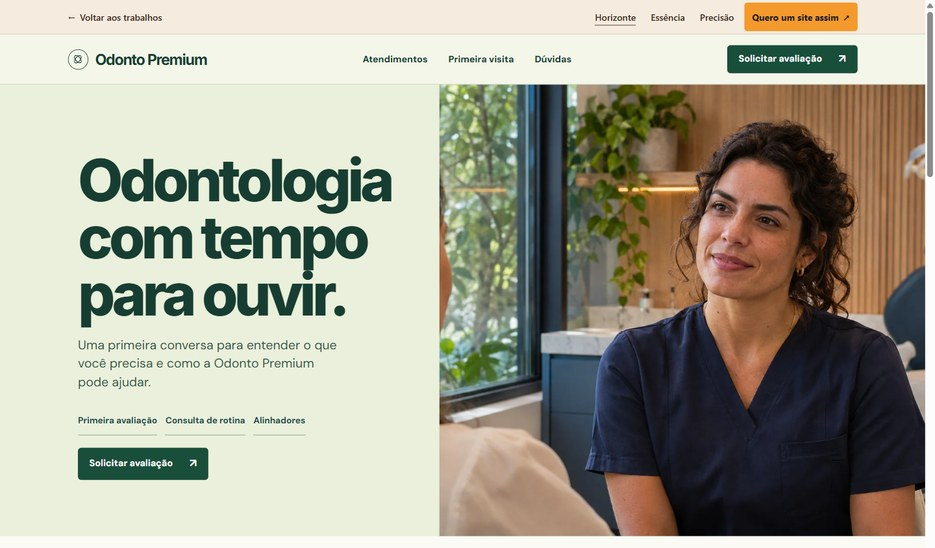
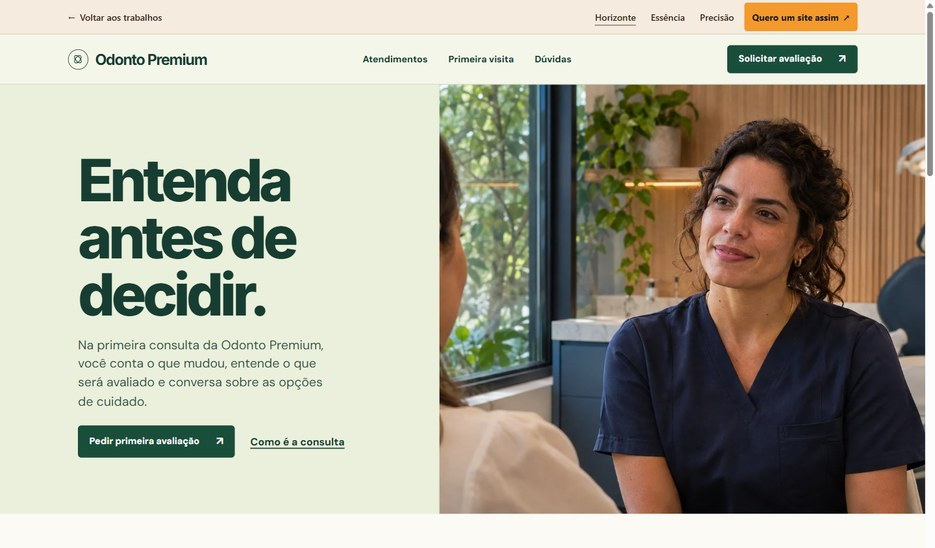
Reescreve as jornadas e o conteúdo da demonstração odontológica

diff --git a/app/exemplos/sites/dentista/essencia.html b/app/exemplos/sites/dentista/essencia.html
@@ -42,46 +42,53 @@
  </header>
  <main id="conteudo">
    <section class="hero hero-wide"><div class="section-shell hero-overlay"><div class="hero-copy">
-       <h1>Seu sorriso, no seu tempo.</h1>
-       <p>Um consultório onde você pode fazer perguntas e decidir com calma como cuidar do seu sorriso.</p>
+       <h1>O cuidado começa na consulta.</h1>
+       <p>Um espaço para entender o que está acontecendo, perguntar à vontade e conversar sobre as possibilidades de tratamento.</p>
 
        <a class="clinic-button" href="#avaliacao">Solicitar avaliação <span aria-hidden="true">↗</span></a>
       </div></div><div class="hero-photo"><img src="sala-720.webp" srcset="sala-720.webp 720w, sala-1440.webp 1440w"
        sizes="100vw" alt="Consultório odontológico com madeira, plantas e luz natural" fetchpriority="high" decoding="async"></div></section>
      <section class="treatments section-shell essence-treatments" id="atendimentos" aria-labelledby="treatments-title">
-    <div class="essence-section-title"><h2 id="treatments-title">Os atendimentos.</h2><p>Escolha o motivo da sua visita.</p></div>
-    <div class="essence-spread"><article class="essence-story"><figure class=""><img src="avaliacao-720.webp" srcset="avaliacao-720.webp 720w, avaliacao-1440.webp 1440w" sizes="(max-width: 760px) 100vw, 50vw" alt="Dentista e paciente conversam com apoio de um modelo odontológico" decoding="async" loading="lazy"></figure><div><h3>Primeira avaliação</h3><p>Conte o que motivou a visita e converse sobre os próximos passos.</p><a href="#avaliacao" data-service-choice="primeira" aria-label="Selecionar primeira avaliação">Ver na avaliação <span aria-hidden="true">↗</span></a></div></article>
-<article class="essence-story"><figure class=""><img src="rotina-720.webp" srcset="rotina-720.webp 720w, rotina-1440.webp 1440w" sizes="(max-width: 760px) 100vw, 50vw" alt="Bandeja preparada para a consulta odontológica" decoding="async" loading="lazy"></figure><div><h3>Consulta de rotina</h3><p>Reserve um momento para revisar seus cuidados e esclarecer dúvidas.</p><a href="#avaliacao" data-service-choice="rotina" aria-label="Selecionar consulta de rotina">Ver na avaliação <span aria-hidden="true">↗</span></a></div></article>
-<article class="essence-story"><figure class=""><img src="alinhadores-720.webp" srcset="alinhadores-720.webp 720w, alinhadores-1440.webp 1440w" sizes="(max-width: 760px) 100vw, 50vw" alt="Alinhador transparente e modelo odontológico" decoding="async" loading="lazy"></figure><div><h3>Alinhadores</h3><p>Leve suas dúvidas sobre alinhamento e entenda o que seria avaliado.</p><a href="#avaliacao" data-service-choice="alinhadores" aria-label="Selecionar alinhadores">Ver na avaliação <span aria-hidden="true">↗</span></a></div></article></div>
+    <div class="essence-section-title"><h2 id="treatments-title">Escolha o motivo da visita.</h2><p>Escolha o motivo da sua visita.</p></div>
+    <div class="essence-spread"><article class="essence-story"><figure class=""><img src="avaliacao-720.webp" srcset="avaliacao-720.webp 720w, avaliacao-1440.webp 1440w" sizes="(max-width: 760px) 100vw, 50vw" alt="Dentista e paciente conversam com apoio de um modelo odontológico" decoding="async" loading="lazy"></figure><div><h3>Uma primeira conversa</h3><p>Para reorganizar o cuidado, discutir um incômodo ou entender uma mudança que você percebeu no sorriso.</p><a href="#avaliacao" data-service-choice="primeira" aria-label="Selecionar primeira avaliação">Ver na avaliação <span aria-hidden="true">↗</span></a></div></article>
+<article class="essence-story"><figure class=""><img src="rotina-720.webp" srcset="rotina-720.webp 720w, rotina-1440.webp 1440w" sizes="(max-width: 760px) 100vw, 50vw" alt="Bandeja preparada para a consulta odontológica" decoding="async" loading="lazy"></figure><div><h3>Uma consulta de rotina</h3><p>Para falar sobre os cuidados do dia a dia e revisar o acompanhamento já iniciado.</p><a href="#avaliacao" data-service-choice="rotina" aria-label="Selecionar consulta de rotina">Ver na avaliação <span aria-hidden="true">↗</span></a></div></article>
+<article class="essence-story"><figure class=""><img src="alinhadores-720.webp" srcset="alinhadores-720.webp 720w, alinhadores-1440.webp 1440w" sizes="(max-width: 760px) 100vw, 50vw" alt="Alinhador transparente e modelo odontológico" decoding="async" loading="lazy"></figure><div><h3>Uma avaliação de alinhamento</h3><p>Para conversar sobre o que você gostaria de mudar e tirar dúvidas sobre alinhadores.</p><a href="#avaliacao" data-service-choice="alinhadores" aria-label="Selecionar alinhadores">Ver na avaliação <span aria-hidden="true">↗</span></a></div></article></div>
    </section>
    <section class="clinic-scene essence-scene" aria-labelledby="space-title">
     <div class="section-shell scene-inner">
-     <div><h2 id="space-title">Por dentro da Odonto Premium.</h2><p>Na primeira visita, o consultório também é lugar para fazer perguntas e entender suas opções.</p></div>
+     <div><h2 id="space-title">Por dentro da Odonto Premium.</h2><p>A recepção é onde você pode informar o motivo da visita. No consultório, a conversa segue com o dentista, que explica a avaliação e como será feito o acompanhamento.</p></div>
      <figure class=""><img src="recepcao-720.webp" srcset="recepcao-720.webp 720w, recepcao-1440.webp 1440w" sizes="(max-width: 760px) 100vw, 50vw" alt="Área de espera com madeira, poltronas e uma janela para o jardim" decoding="async" loading="lazy"></figure>
     </div>
    </section>
    <section class="visit visit-essence" id="primeira-visita" aria-labelledby="visit-title">
     <div class="section-shell visit-inner">
-      <div><h2 id="visit-title">Da conversa ao plano de cuidado.</h2><p class="visit-lead">Veja o que acontece ao chegar para a primeira avaliação.</p></div>
+      <div><h2 id="visit-title">Da chegada à conversa sobre as opções</h2><p class="visit-lead">Você pode trazer exames anteriores e perguntas. A visita também pode começar só com uma conversa.</p></div>
       <ol>
-        <li><h3>Conversa inicial</h3><p>Conte o que trouxe você e o que gostaria de entender.</p></li>
-        <li><h3>Avaliação</h3><p>O dentista explica o que vai observar e abre espaço para perguntas.</p></li>
-        <li><h3>Próximos passos</h3><p>Vocês conversam sobre as opções e decidem como seguir.</p></li>
+        <li><h3>Ao chegar</h3><p>Conte à equipe o motivo da visita e se já passou por algum tratamento relacionado.</p></li>
+        <li><h3>Durante a avaliação</h3><p>Converse com o dentista sobre o que ele observou e sobre as dúvidas que você trouxe.</p></li>
+        <li><h3>Ao sair</h3><p>Confirme o que ficou combinado, quais informações faltam e como será feito o próximo contato.</p></li>
       </ol>
+    </div>
+   </section>
+   <section class="essence-questions" aria-labelledby="questions-title">
+    <div class="section-shell essence-questions-inner">
+     <h2 id="questions-title">Perguntas para levar à consulta</h2>
+     <ul><li>O que a avaliação pode esclarecer?</li><li>Quais opções fazem sentido para o meu caso?</li><li>O que preciso saber antes de decidir?</li></ul>
     </div>
    </section>
    <section class="faq section-shell" id="duvidas" aria-labelledby="faq-title">
    <h2 id="faq-title">Dúvidas antes de marcar</h2>
    <div>
-    <details><summary>Preciso escolher um tratamento antes da avaliação?</summary><p>Você pode escolher “Primeira avaliação” e conversar sobre o motivo da visita.</p></details>
-    <details><summary>O pedido já confirma uma consulta?</summary><p>Numa clínica real, a equipe confirmaria o dia e o horário com você. Neste exemplo, o pedido gera uma confirmação e uma mensagem de teste.</p></details>
-    <details><summary>O que posso levar na primeira visita?</summary><p>Se tiver exames anteriores, pergunte à equipe se vale a pena levá-los. Você também pode anotar suas dúvidas.</p></details>
+    <details><summary>Posso só conversar sobre as opções?</summary><p>Sim. Se o objetivo for conhecer possibilidades, escolha Primeira avaliação e leve as perguntas que quer discutir.</p></details>
+    <details><summary>Quando descubro as etapas e os valores?</summary><p>A avaliação ajuda a definir o que faz sentido para o seu caso. Pergunte o que cada opção inclui e se algum exame será necessário.</p></details>
+    <details><summary>Preciso levar radiografias ou exames?</summary><p>Se já tiver exames, você pode levá-los. A equipe orienta se precisa de alguma informação adicional.</p></details>
+    <details><summary>Quem confirma a data da consulta?</summary><p>A equipe combina data e horário no retorno. O envio do pedido inicia esse contato.</p></details>
    </div>
   </section>
 <div class="section-shell request-wrap"><section id="avaliacao" class="request" aria-labelledby="request-title">
-    <div class="request-heading"><h2 id="request-title">Solicitar avaliação</h2>
+    <div class="request-heading"><h2 id="request-title">Combine o primeiro contato</h2>
      <button class="sample-button" type="button" data-fill-example hidden>Usar exemplo</button></div>
-    <p>Escolha o atendimento e o melhor período para retorno.</p>
+    <p>Informe o motivo da visita e o período em que prefere conversar.</p>
     <form class="request-form">
      <div class="form-fields">
       <label for="service">Qual atendimento você procura?

diff --git a/app/exemplos/sites/dentista/precisao.html b/app/exemplos/sites/dentista/precisao.html
@@ -41,17 +41,16 @@
  </header>
  <main id="conteudo">
    <section class="hero hero-fast"><div class="hero-fast-grid"><div class="hero-copy">
-       <h1>Escolha seu atendimento.</h1>
-       <p>Primeira avaliação, consulta de rotina ou alinhadores.</p>
+       <h1>Pedir avaliação odontológica.</h1>
+       <p>A equipe retorna no período que você indicar para combinar a consulta.</p>
 
 
       </div>
      <div class="hero-fast-media"><img src="consultorio-720.webp" srcset="consultorio-720.webp 720w, consultorio-1440.webp 1440w"
        sizes="100vw" alt="Cadeira de atendimento e equipamentos na clínica Odonto Premium" decoding="async" fetchpriority="high"></div>
      <section id="avaliacao" class="request" aria-labelledby="request-title">
-    <div class="request-heading"><h2 id="request-title">Solicitar avaliação</h2>
+    <div class="request-heading"><h2 id="request-title">Seu pedido de avaliação</h2>
      <button class="sample-button" type="button" data-fill-example hidden>Usar exemplo</button></div>
-    <p>Escolha o atendimento e o melhor período para retorno.</p>
     <form class="request-form">
      <div class="form-fields">
       <label for="service">Qual atendimento você procura?
@@ -72,6 +71,7 @@
       </label>
      </div>
      <button class="clinic-button" type="submit" disabled>Simular pedido <span aria-hidden="true">↗</span></button>
+     <p class="service-guidance" data-service-guidance hidden></p>
      <p class="demo-note">Demonstração. Nenhuma mensagem será enviada.</p>
      <noscript><p>Ative o JavaScript para simular o pedido.</p></noscript>
     </form>
@@ -93,23 +93,23 @@
     </div>
    </section></div></section>
      <section class="treatments precision-treatments" id="atendimentos" aria-labelledby="treatments-title">
-     <div class="section-shell"><h2 id="treatments-title">Conheça os atendimentos.</h2><ul class="precision-rows"><li class="precision-row"><h3>Primeira avaliação</h3><div><p>Conte o que motivou a visita e converse sobre os próximos passos.</p><a href="#avaliacao" data-service-choice="primeira" aria-label="Selecionar primeira avaliação">Selecionar <span aria-hidden="true">↗</span></a></div><figure class=""><img src="avaliacao-720.webp" srcset="avaliacao-720.webp 720w, avaliacao-1440.webp 1440w" sizes="(max-width: 760px) 100vw, 50vw" alt="Dentista e paciente conversam com apoio de um modelo odontológico" decoding="async" loading="lazy"></figure></li>
-<li class="precision-row"><h3>Consulta de rotina</h3><div><p>Reserve um momento para revisar seus cuidados e esclarecer dúvidas.</p><a href="#avaliacao" data-service-choice="rotina" aria-label="Selecionar consulta de rotina">Selecionar <span aria-hidden="true">↗</span></a></div><figure class=""><img src="rotina-720.webp" srcset="rotina-720.webp 720w, rotina-1440.webp 1440w" sizes="(max-width: 760px) 100vw, 50vw" alt="Bandeja preparada para a consulta odontológica" decoding="async" loading="lazy"></figure></li>
-<li class="precision-row"><h3>Alinhadores</h3><div><p>Leve suas dúvidas sobre alinhamento e entenda o que seria avaliado.</p><a href="#avaliacao" data-service-choice="alinhadores" aria-label="Selecionar alinhadores">Selecionar <span aria-hidden="true">↗</span></a></div><figure class=""><img src="alinhadores-720.webp" srcset="alinhadores-720.webp 720w, alinhadores-1440.webp 1440w" sizes="(max-width: 760px) 100vw, 50vw" alt="Alinhador transparente e modelo odontológico" decoding="async" loading="lazy"></figure></li></ul></div>
+     <div class="section-shell"><h2 id="treatments-title">Qual atendimento você procura?</h2><ul class="precision-rows"><li class="precision-row"><h3>Primeira avaliação</h3><div><p>Primeira vez na clínica, retomada do acompanhamento ou dúvida sobre qual atendimento escolher.</p><a href="#avaliacao" data-service-choice="primeira" aria-label="Selecionar primeira avaliação">Selecionar <span aria-hidden="true">↗</span></a></div><figure class=""><img src="avaliacao-720.webp" srcset="avaliacao-720.webp 720w, avaliacao-1440.webp 1440w" sizes="(max-width: 760px) 100vw, 50vw" alt="Dentista e paciente conversam com apoio de um modelo odontológico" decoding="async" loading="lazy"></figure></li>
+<li class="precision-row"><h3>Consulta de rotina</h3><div><p>Para dar continuidade ao cuidado e conversar sobre a revisão periódica.</p><a href="#avaliacao" data-service-choice="rotina" aria-label="Selecionar consulta de rotina">Selecionar <span aria-hidden="true">↗</span></a></div><figure class=""><img src="rotina-720.webp" srcset="rotina-720.webp 720w, rotina-1440.webp 1440w" sizes="(max-width: 760px) 100vw, 50vw" alt="Bandeja preparada para a consulta odontológica" decoding="async" loading="lazy"></figure></li>
+<li class="precision-row"><h3>Avaliação para alinhadores</h3><div><p>Para pedir uma conversa sobre alinhamento dos dentes e opções de tratamento.</p><a href="#avaliacao" data-service-choice="alinhadores" aria-label="Selecionar alinhadores">Selecionar <span aria-hidden="true">↗</span></a></div><figure class=""><img src="alinhadores-720.webp" srcset="alinhadores-720.webp 720w, alinhadores-1440.webp 1440w" sizes="(max-width: 760px) 100vw, 50vw" alt="Alinhador transparente e modelo odontológico" decoding="async" loading="lazy"></figure></li></ul></div>
    </section>
    <section class="visit visit-precision" id="primeira-visita" aria-labelledby="visit-title">
     <div class="section-shell visit-inner">
-      <div><h2 id="visit-title">O que acontece na avaliação</h2><p class="visit-lead">Saiba o caminho antes de simular o pedido.</p></div>
+      <div><h2 id="visit-title">O que acontece depois do pedido</h2><p class="visit-lead">O período informado ajuda a equipe a falar com você. A consulta é combinada depois.</p></div>
       <ol>
-        <li><h3>Conversa inicial</h3><p>Conte o que trouxe você e o que gostaria de entender.</p></li>
-        <li><h3>Avaliação</h3><p>O dentista explica o que vai observar e abre espaço para perguntas.</p></li>
-        <li><h3>Próximos passos</h3><p>Vocês conversam sobre as opções e decidem como seguir.</p></li>
+        <li><h3>Pedido recebido</h3><p>A equipe identifica o motivo da consulta e o período em que você prefere falar.</p></li>
+        <li><h3>Contato da equipe</h3><p>Vocês combinam a data, o horário e o que precisa levar.</p></li>
+        <li><h3>Primeira visita</h3><p>O dentista retoma o motivo da consulta e explica os próximos passos.</p></li>
       </ol>
     </div>
    </section>
    <section class="clinic-scene precision-scene section-shell" aria-labelledby="space-title">
     <figure class=""><img src="sala-720.webp" srcset="sala-720.webp 720w, sala-1440.webp 1440w" sizes="(max-width: 760px) 100vw, 50vw" alt="Consultório iluminado, com cadeira de atendimento e madeira clara" decoding="async" loading="lazy"></figure>
-    <div><h2 id="space-title">O consultório</h2><p>Um espaço para a conversa inicial, a avaliação e a orientação sobre o que vem depois.</p></div>
+    <div><h2 id="space-title">O consultório</h2><p>Na primeira visita, o consultório é onde a equipe retoma o motivo do pedido e conversa sobre a avaliação.</p></div>
    </section>
    <section class="faq section-shell" id="duvidas" aria-labelledby="faq-title">
    <div class="faq-intro">
@@ -117,9 +117,9 @@
     <a class="clinic-button" href="#avaliacao">Solicitar avaliação <span aria-hidden="true">↗</span></a>
    </div>
    <div>
-    <details><summary>Preciso escolher um tratamento antes da avaliação?</summary><p>Você pode escolher “Primeira avaliação” e conversar sobre o motivo da visita.</p></details>
-    <details><summary>O pedido já confirma uma consulta?</summary><p>Numa clínica real, a equipe confirmaria o dia e o horário com você. Neste exemplo, o pedido gera uma confirmação e uma mensagem de teste.</p></details>
-    <details><summary>O que posso levar na primeira visita?</summary><p>Se tiver exames anteriores, pergunte à equipe se vale a pena levá-los. Você também pode anotar suas dúvidas.</p></details>
+    <details><summary>Qual opção devo selecionar se ainda estou em dúvida?</summary><p>Escolha Primeira avaliação. A equipe pode conversar com você sobre o motivo e orientar o próximo passo.</p></details>
+    <details><summary>O período escolhido já reserva um horário?</summary><p>O período serve para o retorno da equipe. O horário da consulta é combinado em seguida.</p></details>
+    <details><summary>Consigo ajustar minha escolha antes de finalizar?</summary><p>Sim. Depois de simular o pedido, use Editar escolhas para corrigir o atendimento ou o período.</p></details>
    </div>
   </section>
  </main>

diff --git a/app/exemplos/sites/dentista/index.html b/app/exemplos/sites/dentista/index.html
@@ -41,49 +41,52 @@
  </header>
  <main id="conteudo">
    <section class="hero section-shell"><div class="hero-copy">
-       <h1>Odontologia com tempo para ouvir.</h1>
-       <p>Uma primeira conversa para entender o que você precisa e como a Odonto Premium pode ajudar.</p>
-       <div class="hero-choices" role="group" aria-label="Atalhos de atendimento"><a href="#avaliacao" data-service-choice="primeira">Primeira avaliação</a>
-         <a href="#avaliacao" data-service-choice="rotina">Consulta de rotina</a>
-         <a href="#avaliacao" data-service-choice="alinhadores">Alinhadores</a></div>
-       <a class="clinic-button" href="#avaliacao">Solicitar avaliação <span aria-hidden="true">↗</span></a>
+       <h1>Entenda antes de decidir.</h1>
+       <p>Na primeira consulta da Odonto Premium, você conta o que mudou, entende o que será avaliado e conversa sobre as opções de cuidado.</p>
+       <div class="horizon-hero-actions">
+        <a class="clinic-button" href="#avaliacao" data-service-choice="primeira">Pedir primeira avaliação <span aria-hidden="true">↗</span></a>
+        <a class="clinic-inline" href="#primeira-visita">Como é a consulta</a>
+       </div>
       </div><div class="hero-photo"><img src="conversa-720.webp" srcset="conversa-720.webp 720w, conversa-1440.webp 1440w"
        sizes="(max-width: 760px) 100vw, 58vw" alt="Dentista conversando com uma paciente no consultório" fetchpriority="high" decoding="async"></div></section>
      <section class="treatments section-shell horizon-treatments" id="atendimentos" aria-labelledby="treatments-title">
-    <h2 id="treatments-title">O que traz você até aqui?</h2>
+    <h2 id="treatments-title">Por que você está procurando um dentista?</h2>
     <div class="horizon-index">
      <figure class="horizon-index-photo"><img src="avaliacao-720.webp" srcset="avaliacao-720.webp 720w, avaliacao-1440.webp 1440w" sizes="(max-width: 760px) 100vw, 50vw" alt="Dentista e paciente conversam com apoio de um modelo odontológico" decoding="async" loading="lazy"></figure>
-     <ul class="service-list"><li><div><h3>Primeira avaliação</h3><p>Conte o que motivou a visita e converse sobre os próximos passos.</p></div><a href="#avaliacao" data-service-choice="primeira" aria-label="Selecionar primeira avaliação">Escolher <span aria-hidden="true">↗</span></a></li>
-<li><div><h3>Consulta de rotina</h3><p>Reserve um momento para revisar seus cuidados e esclarecer dúvidas.</p></div><a href="#avaliacao" data-service-choice="rotina" aria-label="Selecionar consulta de rotina">Escolher <span aria-hidden="true">↗</span></a></li>
-<li><div><h3>Alinhadores</h3><p>Leve suas dúvidas sobre alinhamento e entenda o que seria avaliado.</p></div><a href="#avaliacao" data-service-choice="alinhadores" aria-label="Selecionar alinhadores">Escolher <span aria-hidden="true">↗</span></a></li></ul>
+     <ul class="service-list"><li><div><h3>Primeira avaliação</h3><p>Para quem está chegando à clínica, percebeu alguma mudança ou quer entender por onde começar.</p></div><a href="#avaliacao" data-service-choice="primeira" aria-label="Selecionar primeira avaliação">Escolher <span aria-hidden="true">↗</span></a></li>
+<li><div><h3>Consulta de rotina</h3><p>Para quem quer retomar o acompanhamento e conversar sobre a rotina de cuidados.</p></div><a href="#avaliacao" data-service-choice="rotina" aria-label="Selecionar consulta de rotina">Escolher <span aria-hidden="true">↗</span></a></li>
+<li><div><h3>Avaliação para alinhadores</h3><p>Para quem tem dúvidas sobre posição dos dentes e quer conversar sobre as alternativas.</p></div><a href="#avaliacao" data-service-choice="alinhadores" aria-label="Selecionar alinhadores">Escolher <span aria-hidden="true">↗</span></a></li></ul>
     </div>
    </section>
    <section class="visit visit-horizon" id="primeira-visita" aria-labelledby="visit-title">
     <div class="section-shell visit-inner">
-      <div><h2 id="visit-title">Sua primeira visita, passo a passo.</h2><p class="visit-lead">Você pode chegar com dúvidas. A conversa faz parte da avaliação.</p></div>
+      <div><h2 id="visit-title">Como é a sua primeira consulta</h2><p class="visit-lead">Você pode começar contando o que está incomodando ou o que gostaria de mudar.</p></div>
       <ol>
-        <li><h3>Conversa inicial</h3><p>Conte o que trouxe você e o que gostaria de entender.</p></li>
-        <li><h3>Avaliação</h3><p>O dentista explica o que vai observar e abre espaço para perguntas.</p></li>
-        <li><h3>Próximos passos</h3><p>Vocês conversam sobre as opções e decidem como seguir.</p></li>
+        <li><h3>Ouvimos o seu motivo</h3><p>O que você percebeu, o que já foi feito e o que espera entender na visita.</p></li>
+        <li><h3>Explicamos a avaliação</h3><p>O dentista conversa com você sobre o que precisa observar e por que isso importa.</p></li>
+        <li><h3>Combinamos o que vem depois</h3><p>Se houver opções, converse sobre etapas, valores e prazos antes de decidir.</p></li>
       </ol>
     </div>
    </section>
    <section class="clinic-scene horizon-scene" aria-label="Recepção da Odonto Premium">
     <img src="recepcao-720.webp" srcset="recepcao-720.webp 720w, recepcao-1440.webp 1440w" sizes="100vw" alt="Recepção da clínica com poltronas verdes e luz natural" decoding="async" loading="lazy">
-    <div class="section-shell scene-caption"><p>Recepção da Odonto Premium</p></div>
+    <div class="section-shell scene-caption"><p>Recepção da Odonto Premium. Antes da avaliação, você pode conversar com a equipe sobre o motivo da visita.</p></div>
    </section>
    <section class="faq section-shell" id="duvidas" aria-labelledby="faq-title">
    <h2 id="faq-title">Dúvidas antes de marcar</h2>
    <div>
-    <details><summary>Preciso escolher um tratamento antes da avaliação?</summary><p>Você pode escolher “Primeira avaliação” e conversar sobre o motivo da visita.</p></details>
-    <details><summary>O pedido já confirma uma consulta?</summary><p>Numa clínica real, a equipe confirmaria o dia e o horário com você. Neste exemplo, o pedido gera uma confirmação e uma mensagem de teste.</p></details>
-    <details><summary>O que posso levar na primeira visita?</summary><p>Se tiver exames anteriores, pergunte à equipe se vale a pena levá-los. Você também pode anotar suas dúvidas.</p></details>
+    <details><summary>Faz tempo que não vou ao dentista. Por onde começo?</summary><p>Escolha Primeira avaliação. Você pode contar há quanto tempo foi a última consulta e o que motivou a visita agora.</p></details>
+    <details><summary>A avaliação já inclui um procedimento?</summary><p>O pedido é para uma avaliação. Se houver indicação de um procedimento, a equipe explica o que ele envolve e combina os próximos passos.</p></details>
+    <details><summary>O que vale levar?</summary><p>Se tiver exames ou informações de tratamentos anteriores, leve o que estiver à mão. Anote também as perguntas que quer fazer.</p></details>
+    <details><summary>Quando a consulta fica marcada?</summary><p>Depois do pedido, a equipe entra em contato para combinar data e horário. O período escolhido é para o retorno.</p></details>
    </div>
   </section>
-<div class="section-shell request-wrap"><section id="avaliacao" class="request" aria-labelledby="request-title">
-    <div class="request-heading"><h2 id="request-title">Solicitar avaliação</h2>
+<div class="section-shell request-wrap"><div class="section-shell request-layout">
+    <div class="request-intro"><h2>Vamos marcar uma conversa?</h2><p>Você escolhe quando é mais fácil receber o retorno. A equipe conversa com você para combinar a consulta.</p></div>
+    <section id="avaliacao" class="request" aria-labelledby="request-title">
+    <div class="request-heading"><h2 id="request-title">Pedir avaliação</h2>
      <button class="sample-button" type="button" data-fill-example hidden>Usar exemplo</button></div>
-    <p>Escolha o atendimento e o melhor período para retorno.</p>
+    <p>Escolha o atendimento e diga quando é mais fácil falar com você.</p>
     <form class="request-form">
      <div class="form-fields">
       <label for="service">Qual atendimento você procura?
@@ -123,7 +126,7 @@
      </div>
      <p role="status" class="copy-status"></p>
     </div>
-   </section></div>
+   </section></div></div>
     </main>
  <footer class="clinic-footer">
   <div class="section-shell">

diff --git a/app/exemplos/sites/dentista/dentista.css b/app/exemplos/sites/dentista/dentista.css
@@ -500,3 +500,35 @@ figure { margin:0;overflow:hidden }
  .precisao .hero-fast .request-form > button { justify-self:start }
  .precisao .precision-row figure { min-height:8rem;height:100% }
 }
+
+/* Layouts for the content and decision points unique to each version. */
+.horizonte .hero h1 { max-width:9.5ch }
+.horizon-hero-actions { display:flex;flex-wrap:wrap;align-items:center;gap:.6rem 1.5rem;margin-top:1.4rem }
+.clinic-inline { display:inline-flex;min-height:44px;align-items:center;font-weight:700;text-underline-offset:.24rem }
+.horizonte .request-layout { display:grid;grid-template-columns:minmax(0,.8fr) minmax(0,1.2fr);gap:clamp(1.4rem,5vw,5rem);align-items:center }
+.horizonte .request-intro { color:#f5f2e7 }
+.horizonte .request-intro h2 { font-size:clamp(2.3rem,4.15vw,4.5rem);max-width:11ch;letter-spacing:-.052em }
+.horizonte .request-intro p { color:#e3e8da;max-width:32ch;margin-top:.85rem }
+.horizonte .request-layout .request { margin-inline:0;max-width:none }
+.horizonte .service-list p { max-width:45ch }
+
+.essence-questions { padding-block:clamp(2rem,4.7vw,4.4rem);background:#344638 }
+.essence-questions-inner { display:grid;grid-template-columns:minmax(0,.8fr) minmax(0,1.2fr);align-items:center;gap:clamp(1.2rem,5vw,4.8rem) }
+.essence-questions h2 { font-weight:400;max-width:15ch }
+.essence-questions ul { list-style:none;padding:0;border-top:1px solid #859381 }
+.essence-questions li { padding:.85rem 0;color:#f4ebd6;border-bottom:1px solid #859381 }
+.essence-questions li::before { content:"↗";margin-right:.7rem;color:#e0c18b }
+.essencia .hero-copy h1 { max-width:10.5ch }
+
+.precisao .hero-fast h1 { font-size:clamp(2.6rem,6.1vw,5.6rem) }
+.precisao .request-heading { margin-bottom:.8rem }
+.precisao .service-guidance { padding:.65rem .78rem;background:#edf2fb;border-radius:.27rem;font-size:.9rem;color:#253e6a }
+.precisao .hero-fast .demo-note { margin-top:.12rem }
+@media(max-width:760px) {
+ .horizon-hero-actions { margin-top:1.1rem }
+ .horizon-hero-actions .clinic-button { min-height:46px }
+ .horizonte .request-layout,.essence-questions-inner { grid-template-columns:1fr }
+ .horizonte .request-layout { width:100% }
+ .essencia .hero-copy h1 { max-width:10.7ch }
+ .precisao .hero-fast h1 { font-size:clamp(2.5rem,9.8vw,4.3rem) }
+}

diff --git a/app/exemplos/sites/dentista/versoes.html b/app/exemplos/sites/dentista/versoes.html
@@ -12,22 +12,22 @@
 <body class="comparison">
  <main class="section-shell compare-shell">
   <a class="compare-back" href="/?tipo=orcamento&amp;projeto=dentista#trabalhos">← Voltar aos trabalhos</a>
-  <h1>Três sites para a mesma clínica.</h1>
-  <p>Compare os designs da Odonto Premium e experimente o pedido de avaliação em cada um.</p>
+  <h1>Odonto Premium</h1>
+  <p>Três propostas de site para uma clínica odontológica. Abra uma delas e experimente o pedido de avaliação.</p>
   <div class="version-grid">
     <article class="version-card horizonte">
      <a href="./"><img src="versao-horizonte.webp" width="900" height="590" alt="">
-      <div><h2>Horizonte</h2><p>Acolhedora, com atalhos para escolher o atendimento.</p><span>Abrir demonstração <span aria-hidden="true">↗</span></span></div>
+      <div><h2>Horizonte</h2><p>Explica a primeira consulta para quem ainda está decidindo.</p><span>Abrir demonstração <span aria-hidden="true">↗</span></span></div>
      </a>
     </article>
     <article class="version-card essencia">
      <a href="essencia.html"><img src="versao-essencia.webp" width="900" height="590" alt="">
-      <div><h2>Essência</h2><p>Editorial, com o espaço da clínica e a primeira visita em destaque.</p><span>Abrir demonstração <span aria-hidden="true">↗</span></span></div>
+      <div><h2>Essência</h2><p>Apresenta a clínica e ajuda a preparar o que perguntar na visita.</p><span>Abrir demonstração <span aria-hidden="true">↗</span></span></div>
      </a>
     </article>
     <article class="version-card precisao">
      <a href="precisao.html"><img src="versao-precisao.webp" width="900" height="590" alt="">
-      <div><h2>Precisão</h2><p>Direta, com o pedido de avaliação logo na abertura.</p><span>Abrir demonstração <span aria-hidden="true">↗</span></span></div>
+      <div><h2>Precisão</h2><p>Leva o visitante direto ao pedido, com orientação para cada escolha.</p><span>Abrir demonstração <span aria-hidden="true">↗</span></span></div>
      </a>
     </article>
   </div>

diff --git a/app/exemplos/sites/dentista/dentista.js b/app/exemplos/sites/dentista/dentista.js
@@ -24,11 +24,23 @@
  form.querySelector('[type=submit]').disabled = false;
  const status = result.querySelector('.copy-status');
  const sample = document.querySelector('[data-fill-example]');
+ const guidance = form.querySelector('[data-service-guidance]');
+ const guidanceByService = {
+  primeira:'Escolha esta opção se for sua primeira visita ou se não souber qual atendimento pedir.',
+  rotina:'Se já faz acompanhamento, a equipe retoma a conversa no retorno.',
+  alinhadores:'A equipe combina uma avaliação para conversar sobre alinhamento e opções de tratamento.'
+ };
+ const updateGuidance = () => {
+  if (!guidance) return;
+  guidance.textContent = guidanceByService[service.value] || '';
+  guidance.hidden = !guidance.textContent;
+ };
  let sequence = 0;
  sample.hidden = false;
  sample.addEventListener('click', () => {
   if (!service.value) service.value = 'primeira';
   if (!period.value) period.value = 'pela manhã';
+  updateGuidance();
   clearResult();
   form.querySelector('[type=submit]').focus();
  });
@@ -41,11 +53,16 @@
  document.querySelectorAll('[data-service-choice]').forEach(link => {
   link.addEventListener('click', () => {
    service.value = link.dataset.serviceChoice;
+   updateGuidance();
    clearResult();
   });
  });
 
- form.addEventListener('change', clearResult);
+ form.addEventListener('change', () => {
+  updateGuidance();
+  clearResult();
+ });
+ updateGuidance();
  form.addEventListener('submit', event => {
   event.preventDefault();
   const choice = service.selectedOptions[0].textContent;
@@ -66,6 +83,7 @@
 
  result.querySelector('[data-reset-request]').addEventListener('click', () => {
   form.reset();
+  updateGuidance();
   clearResult();
   service.focus();
  });
